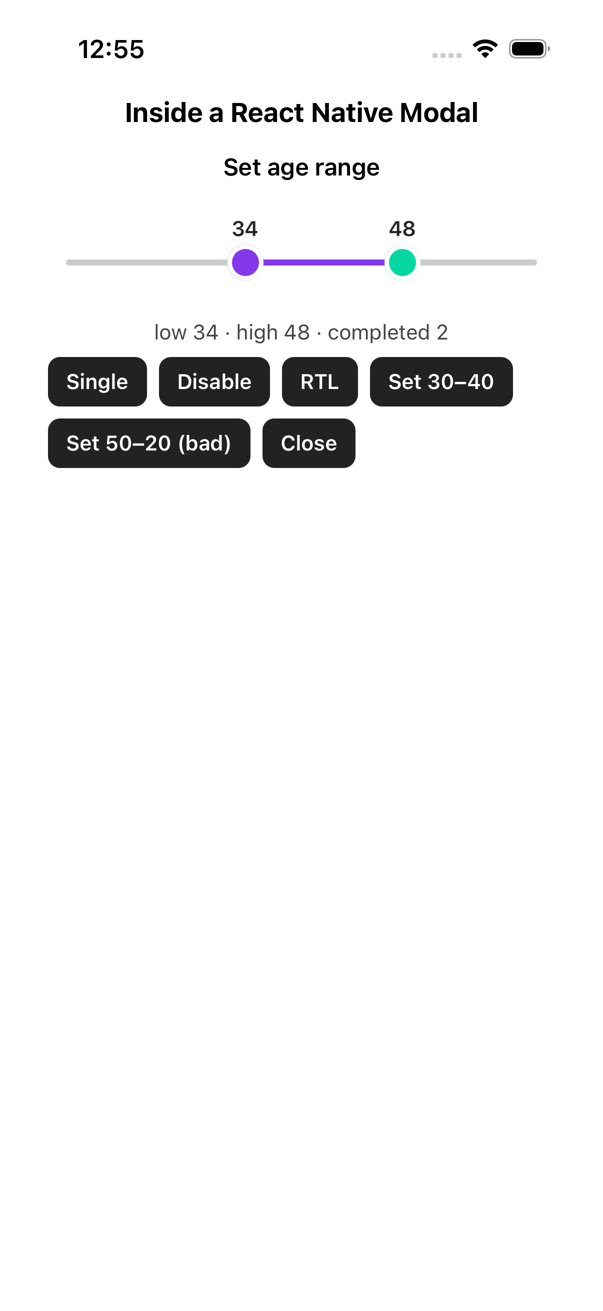
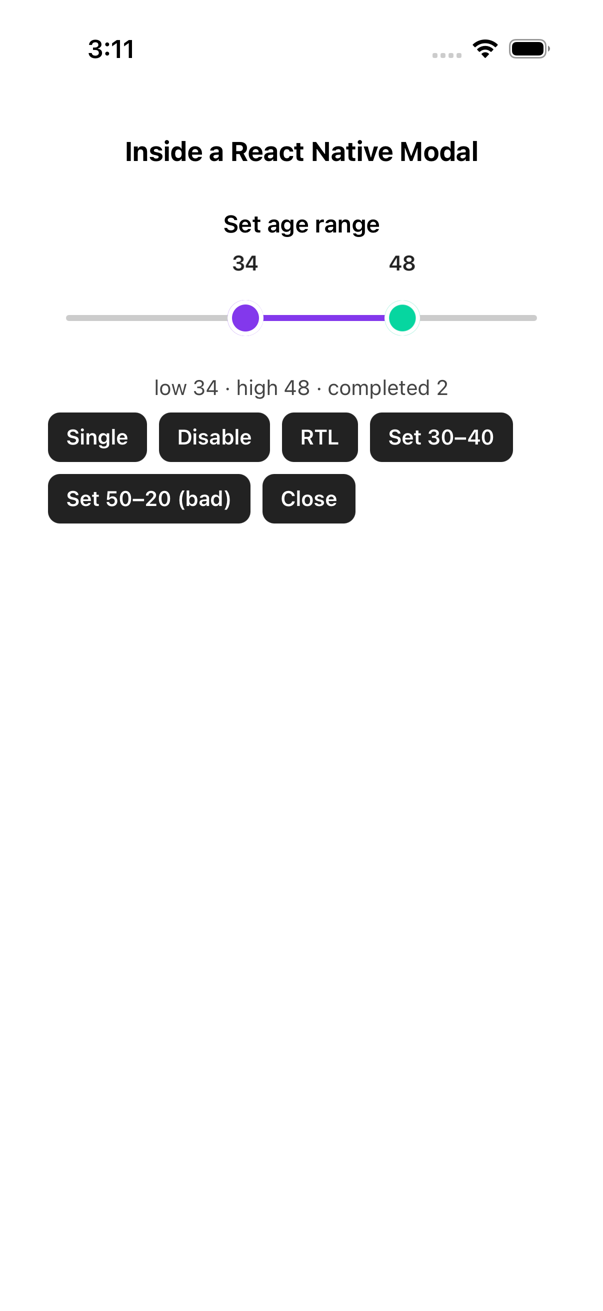
docs: README top with hero, peer table, recipes, migration; final CHANGELOG; new screenshots

Changed region(s): [[0.0597, 0.0305, 0.8955, 0.3966]]

diff --git a/README.md b/README.md
@@ -1,127 +1,125 @@
 # react-native-sticky-range-slider
 
-A fast, accessible range slider for React Native whose value labels **stick to the thumbs**.
+[![npm](https://img.shields.io/npm/v/react-native-sticky-range-slider)](https://www.npmjs.com/package/react-native-sticky-range-slider)
+[![license](https://img.shields.io/npm/l/react-native-sticky-range-slider)](./LICENSE)
+[![CI](https://github.com/hancandice/react-native-sticky-range-slider/actions/workflows/ci.yml/badge.svg)](https://github.com/hancandice/react-native-sticky-range-slider/actions)
 
-- Gestures and thumb animation run on the UI thread (Reanimated worklets + Gesture Handler)
-- Range or single thumb, `step` snapping (decimals without float noise), `minRange`, tap-to-seek
-- Thumbs never cross; overlapping thumbs follow the drag direction
-- Accessible: each thumb is an `adjustable` element with increment/decrement actions; 44 pt touch height
-- RTL aware, works inside `<Modal>` on Android without extra setup
-- New Architecture (Fabric), React 19, Reanimated 4 (and 3), Gesture Handler 3 (and 2), Expo
-- TypeScript, ESM + CommonJS, zero dependencies
+A two-thumb range slider whose value labels ride on the thumbs. 60 fps on the UI thread, accessible, RTL-ready.
 
-| Android | iOS |
-| :-: | :-: |
-| <img src="./docs/demo-android.gif" width="300" /> | <img src="./docs/demo-ios.gif" width="300" /> |
+<p align="center">
+  <img src="https://raw.githubusercontent.com/hancandice/react-native-sticky-range-slider/v1.0.0/docs/hero.gif" width="360" alt="Dragging both thumbs of a price filter until the labels merge, tapping the rail to seek and dragging a single-thumb rating slider" />
+</p>
 
-## Installation
+```tsx
+<RangeSlider min={0} max={500} step={10} low={low} high={high}
+  onValueChange={(l, h) => { setLow(l); setHigh(h); }} />
+```
+
+- Labels follow the thumbs and merge when they meet
+- Range or single thumb, `step` (decimals without float noise) or continuous, `minRange`, tap to seek
+- VoiceOver / TalkBack adjustable thumbs, 44 pt touch target, RTL, dark mode
+- Works inside `<Modal>` on Android, New Architecture, Expo, Reanimated 3 & 4
+
+## Install
 
 ```sh
-npm install react-native-sticky-range-slider
-# peer dependencies
-npx expo install react-native-reanimated react-native-gesture-handler   # Expo
-npm install react-native-reanimated react-native-gesture-handler        # bare React Native
+npx expo install react-native-sticky-range-slider react-native-reanimated react-native-gesture-handler
 ```
 
-Follow the Reanimated and Gesture Handler installation guides. Wrapping your app in
-`GestureHandlerRootView` is recommended (the slider also renders one internally, which is what
-makes it work inside a React Native `<Modal>` on Android).
+Bare React Native:
 
-| Peer | Supported |
-| --- | --- |
-| `react-native` | ≥ 0.76 |
-| `react-native-reanimated` | ≥ 3.16 (incl. 4.x with `react-native-worklets`) |
-| `react-native-gesture-handler` | ≥ 2.20 (incl. 3.x) |
-
-Verified on Android 14 and iOS 26 with Expo SDK 58 (React Native 0.88, New Architecture,
-Reanimated 4.7, Gesture Handler 3.3); type-checked against Reanimated 3.16 / Gesture Handler 2.20 /
-React 18.
-
-## Usage
-
-```tsx
-import { useState } from 'react';
-import { Text, View } from 'react-native';
-import RangeSlider from 'react-native-sticky-range-slider';
-
-export function AgeFilter() {
-  const [range, setRange] = useState({ low: 18, high: 60 });
-
-  return (
-    <View style={{ padding: 24 }}>
-      <RangeSlider
-        min={18}
-        max={60}
-        step={1}
-        minRange={5}
-        low={range.low}
-        high={range.high}
-        onValueChanged={(low, high) => setRange({ low, high })}
-        onSlidingComplete={(low, high) => console.log('save', low, high)}
-        renderLowValue={(value) => <Text>{value}</Text>}
-        renderHighValue={(value) => <Text>{value === 60 ? '60+' : value}</Text>}
-      />
-    </View>
-  );
-}
+```sh
+npm install react-native-sticky-range-slider react-native-reanimated react-native-gesture-handler
 ```
 
-Leave out `low`/`high` for an uncontrolled slider (it starts at `min`/`max`). Use
-`disableRange` for a single thumb.
+Then follow the [Reanimated](https://docs.swmansion.com/react-native-reanimated/docs/fundamentals/getting-started/)
+(Reanimated 4 also needs `react-native-worklets`) and
+[Gesture Handler](https://docs.swmansion.com/react-native-gesture-handler/docs/fundamentals/installation)
+setup. Wrapping your app in `GestureHandlerRootView` is recommended; the slider also renders one
+internally, which is what makes it work inside a React Native `<Modal>` on Android (on Android this
+logs a harmless "already enabled" note when an outer root view exists).
 
-### Custom look
-
-```tsx
-<RangeSlider
-  min={0}
-  max={100}
-  step={5}
-  renderThumb={(type) => <View style={[styles.thumb, type === 'high' && styles.highThumb]} />}
-  renderRail={() => <View style={{ flex: 1, height: 4, borderRadius: 2, backgroundColor: '#ddd' }} />}
-  renderRailSelected={() => <View style={{ height: 4, borderRadius: 2, backgroundColor: '#8338ec' }} />}
-/>
-```
+| Peer | Range | Verified |
+| --- | --- | --- |
+| `react-native` | ≥ 0.76 | 0.88 (New Architecture) on Android 14 and iOS 26, Expo SDK 58 |
+| `react-native-reanimated` | ≥ 3.16 < 5 | 4.7 on device; 3.16 type-checked (`yarn typecheck:min`) |
+| `react-native-gesture-handler` | ≥ 2.20 < 4 | 3.3 on device; 2.20 type-checked |
+| `react` | ≥ 18.2 | 19.3 on device; 18 type-checked |
 
 ## Props
 
 | Prop | Type | Default | Description |
 | --- | --- | --- | --- |
 | `min` / `max` | `number` | **required** | Range. `max < min` is treated as `max = min`. |
-| `step` | `number` | **required** | Distance between values. `0` = continuous. `max` is always reachable. |
-| `minRange` | `number` | `0` | Minimum distance between the thumbs (clamped to the range). |
-| `low` / `high` | `number` | `min` / `max` | Values. When provided, the slider follows them; invalid values are clamped and ordered. |
-| `onValueChanged` | `(low, high) => void` | – | Every user change (drag, tap, accessibility action) – once per step, not per frame. Not called for prop changes. |
+| `step` | `number` | `1` | Distance between values; `0` = continuous. `max` is always reachable, even when `max - min` is not a multiple of `step`. |
+| `minRange` | `number` | `0` | Minimum distance between the thumbs. The limits stay on the step grid. |
+| `low` / `high` | `number` | `min` / `max` | Values. When provided the slider follows them; they are clamped, ordered and snapped to the step grid. Leave them out for an uncontrolled slider. |
+| `onValueChange` | `(low, high) => void` | – | Every user change (drag, tap, accessibility action) — once per step, or on every frame of a drag when `step` is `0`. Not called when you change `low`/`high`. |
 | `onSlidingStart` | `(thumb: 'low' \| 'high') => void` | – | A drag starts. |
 | `onSlidingComplete` | `(low, high) => void` | – | The finger is released (also after a tap or accessibility action). |
-| `renderThumb` | `(type) => ReactNode` | purple dot | Thumb (both thumbs should have the same width). |
-| `renderRail` | `() => ReactNode` | grey line | Full rail (should stretch: `flex: 1`). |
-| `renderRailSelected` | `() => ReactNode` | purple line | Selected part of the rail. |
-| `renderLowValue` / `renderHighValue` | `(value) => ReactNode` | number | Label above each thumb. Return `null` to hide. |
 | `disableRange` | `boolean` | `false` | Single thumb (`low`). |
-| `disabled` | `boolean` | `false` | Ignore user interaction. |
+| `disabled` | `boolean` | `false` | Ignore user interaction and render at 38 % opacity. |
 | `inverted` | `boolean` | `I18nManager.isRTL` | `min` on the right. |
-| `hitSlop` | `number \| Insets` | `{ top: 8, bottom: 8, left: 12, right: 12 }` | Extra touch area. The slider itself is at least 44 pt tall. |
-| `thumbAccessibilityLabel` | `(type) => string` | `'Minimum'` / `'Maximum'` / `'Value'` | Screen reader label of a thumb. |
-| `formatAccessibilityValue` | `(value) => string` | `String` | Screen reader value text. |
+| `labelPosition` | `'top' \| 'none'` | `'top'` | `top` reserves room above the rail for the labels, so they never overlap the content above. |
+| `formatLabel` | `(value) => string` | `String` (2 decimals when `step` is 0) | Text of the default labels. Labels re-render only when this text changes. |
+| `thumbColor` | `string` | `#FFFFFF` | Default thumb fill (28 pt, hairline border, soft shadow). |
+| `railColor` | `string` | `#C7C7CC` (dark: `#48484A`) | Default rail. |
+| `selectedRailColor` | `string` | `#007AFF` (dark: `#0A84FF`) | Default selected rail. |
+| `labelStyle` | `TextStyle` | 13 pt, semibold, tabular numbers | Style of the default labels. |
+| `renderThumb` | `(type, { pressed, disabled }) => ReactNode` | white dot | Custom thumb (both thumbs should have the same size). |
+| `renderRail` / `renderRailSelected` | `() => ReactNode` | 4 pt lines | Custom rails (the full rail should stretch: `flex: 1`). |
+| `renderLowValue` / `renderHighValue` | `(value) => ReactNode` | label | Custom labels. Return `null` to hide one. |
+| `hitSlop` | `number \| Insets` | `{ top: 8, bottom: 8, left: 12, right: 12 }` | Extra touch area around the slider (which is at least 44 pt tall). |
+| `accessibilityLabel` | `string` | – | Prefix of the thumb labels, e.g. `"Price, Minimum"`. |
+| `thumbAccessibilityLabel` | `(type) => string` | `'Minimum'` / `'Maximum'` / `'Value'` | Full screen-reader label of a thumb (overrides the prefix). |
+| `formatAccessibilityValue` | `(value) => string` | `formatLabel` | Screen-reader value text. |
 | `...ViewProps` | | | `style`, `testID`, … for the container. |
-| `pannableAreaStyle` | | | **Deprecated**, ignored (see migration). |
+| `onValueChanged` | | | **Deprecated** alias of `onValueChange`. |
+| `pannableAreaStyle` | | | **Deprecated**, ignored — use `hitSlop`. |
+
+Drags follow the finger 1:1; taps and accessibility actions animate the thumb (150 ms), the pressed
+thumb grows to 1.15×, and all motion honours the system **Reduce Motion** setting.
+
+## Recipes
+
+**Price filter with currency labels**
+
+```tsx
+<RangeSlider
+  min={0} max={1000} step={10} minRange={50}
+  low={price.low} high={price.high}
+  formatLabel={(v) => '$' + v}
+  onValueChange={(low, high) => setPrice({ low, high })}
+  onSlidingComplete={(low, high) => refetch(low, high)}
+  accessibilityLabel="Price"
+/>
+```
+
+**Custom colours / dark mode**
+
+```tsx
+<RangeSlider min={18} max={65} thumbColor="#FF2D55" selectedRailColor="#FF2D55"
+  railColor={dark ? '#3A3A3C' : '#F2D7DE'} labelStyle={{ color: '#FF2D55' }} />
+```
+
+**Single continuous slider**: `<RangeSlider min={0} max={1} step={0} disableRange onValueChange={(v) => setVolume(v)} />`
 
 ## Migrating from 0.x
 
-1.0 is a rewrite on Gesture Handler + Reanimated (0.x used `PanResponder` and `Animated` on the
-JS thread).
+1.0 is a rewrite on Gesture Handler and Reanimated (0.x used `PanResponder` and `Animated` on the JS thread).
 
 1. Install the new peer dependencies `react-native-reanimated` and `react-native-gesture-handler`.
-2. Props are unchanged except:
-   - `onValueChanged` is no longer called on mount, on layout or when you change `low`/`high`
-     yourself – only for user changes. Use `onSlidingComplete` for “change end” work.
-   - `pannableAreaStyle` is ignored: the whole slider (at least 44 pt tall) is touchable; use
-     `hitSlop` to enlarge it.
-   - The slider is now at least 44 pt tall (it used to be as tall as the thumb), and the value
-     labels are centered above the thumbs.
-3. Fixed: dragging inside a React Native `<Modal>` on Android / Expo SDK 53+ (issue #1),
-   overlapping thumbs picked the thumb by touch side instead of drag direction (so they could get stuck), float noise with decimal steps, the pannable area
-   did not extend beyond the slider, missing `main` entry in `package.json`.
+2. `onValueChanged` → `onValueChange` (the old name still works with a one-time warning in development).
+   It is no longer called on mount, on layout or when you change `low`/`high` yourself — only for user
+   changes. Use `onSlidingComplete` for “change end” work.
+3. New look: 28 pt white thumbs, 4 pt rails, labels above the thumbs in reserved space (the slider is
+   taller than before), at least 44 pt touch height. Your `render*` props keep working; `renderThumb`
+   now also receives `{ pressed, disabled }`.
+4. `step` is optional (default `1`); `0` makes the slider continuous. Initial values are snapped to the grid.
+5. `pannableAreaStyle` is ignored: the whole slider is touchable; use `hitSlop` to enlarge it.
+6. Fixed: dragging inside a React Native `<Modal>` on Android / Expo SDK 53+
+   ([#1](https://github.com/hancandice/react-native-sticky-range-slider/issues/1)), overlapping thumbs,
+   float noise with decimal steps, and the missing `main` entry in `package.json`.
 
 ## Example app
 
@@ -130,12 +128,11 @@ yarn
 yarn example start   # press a / i, or open it in Expo Go (SDK 58)
 ```
 
-It includes the README demo inside a React Native `<Modal>` (issue #1), RTL, disabled state and edge
-cases (decimal steps, `step > max - min`, `min === max`). Screenshots from emulator runs are in
-[`docs/screenshots`](./docs/screenshots).
+*Showcase* is a filters card (default and custom-coloured sliders, light and dark mode);
+*Edge cases* has the 0.x README demo inside a React Native `<Modal>` (issue #1), RTL, disabled state,
+continuous and decimal steps, merging labels and degenerate ranges. Screenshots from emulator runs
+are in [`docs/screenshots`](./docs/screenshots).
 
 ## License
 
-MIT
-
-Originally forked from [rn-range-slider](https://www.npmjs.com/package/rn-range-slider).
+MIT · Originally forked from [rn-range-slider](https://www.npmjs.com/package/rn-range-slider).

diff --git a/CHANGELOG.md b/CHANGELOG.md
@@ -1,42 +1,55 @@
 # Changelog
 
-## 1.0.0 — unreleased
+## 1.0.0
 
-Rewrite on Reanimated worklets and Gesture Handler: dragging and thumb/rail animation run on the UI thread;
-the JS thread only re-renders the value labels once per step.
+Rewrite on Reanimated worklets and Gesture Handler: dragging and thumb/rail/label animation run on the
+UI thread; the JS thread only re-renders the labels when their text changes.
 
 ### Breaking
 
-- New peer dependencies: `react-native-reanimated` (≥ 3.16, Reanimated 4 supported) and
-  `react-native-gesture-handler` (≥ 2.20, v3 supported).
-- `onValueChanged` is only called for user changes (drag, tap, accessibility action). It is no longer called on
-  mount, on layout or when `low`/`high` props change.
-- `pannableAreaStyle` is deprecated and ignored; use `hitSlop`.
-- The slider is at least 44 pt tall and value labels are centered above the thumbs.
+- New peer dependencies: `react-native-reanimated` (`>=3.16.0 <5`) and `react-native-gesture-handler`
+  (`>=2.20.0 <4`).
+- `onValueChange` is only called for user changes (drag, tap, accessibility action) — not on mount, on layout
+  or when `low`/`high` props change.
+- New default look: 28 pt white thumbs with a soft shadow, 4 pt rails (`#C7C7CC` / `#007AFF`, dark-mode aware),
+  13 pt semibold tabular labels in reserved space above the rail (`labelPosition`), at least 44 pt touch height.
+- `pannableAreaStyle` is ignored; use `hitSlop`.
 
-### Fixed
+### Deprecated
 
-- Thumbs could not be dragged inside a React Native `<Modal>` on Android (issue #1, Expo SDK 53+): the slider
-  renders a nested `GestureHandlerRootView`, so no app-side setup is needed.
-- `package.json` had no `main` entry (CommonJS consumers and Jest could not resolve the package).
-- Overlapping thumbs (`low === high`) picked a thumb by touch side; the drag direction now decides.
-- Floating point noise with decimal steps (`0.30000000000000004`).
-- `max` was not reachable when `max - min` is not a multiple of `step`.
-- Invalid props (`low > high`, values outside the range, `minRange` larger than the range, `max < min`,
-  `step <= 0`) are normalized instead of producing a broken slider.
-- The enlarged touch area extended outside its parent and never received touches.
-- Props changed during a drag are applied when the drag ends.
+- `onValueChanged` → `onValueChange` (still works, one-time `__DEV__` warning).
 
 ### Added
 
-- `onSlidingStart`, `onSlidingComplete`, `inverted` (defaults to `I18nManager.isRTL`), `hitSlop`,
-  `thumbAccessibilityLabel`, `formatAccessibilityValue`.
-- Tap on the rail moves the closest thumb.
+- `step` is optional (default `1`); `step={0}` makes the slider continuous.
+- Labels merge into one centred "low – high" label when they touch and stay inside the slider at both ends.
+- `thumbColor`, `railColor`, `selectedRailColor`, `labelStyle`, `formatLabel`, `labelPosition`, `inverted`
+  (defaults to `I18nManager.isRTL`), `hitSlop`, `onSlidingStart`, `onSlidingComplete`,
+  `thumbAccessibilityLabel`, `formatAccessibilityValue`; `renderThumb(type, { pressed, disabled })`.
+- Disabled state renders at 38 % opacity.
+- Tap on the rail moves the closest thumb; taps on a thumb leave it in place.
+- Motion: taps and accessibility actions animate (150 ms, ease-out cubic), the pressed thumb springs to 1.15×,
+  `ReduceMotion.System` is honoured.
 - Accessibility: each thumb is an `adjustable` element (Android `SeekBar`) with value, range and
-  increment/decrement actions.
-- Named export `RangeSlider` and types `RangeSliderProps`, `ThumbType`.
-- ESM + CommonJS builds with `exports`, `sideEffects: false`, strict TypeScript types with JSDoc.
-- Expo SDK 58 example app (React Native 0.88, New Architecture).
+  increment/decrement actions; the slider's `accessibilityLabel` prefixes the thumb labels.
+- Named export `RangeSlider`, types `RangeSliderProps`, `ThumbType`, `ThumbState`.
+- ESM + CommonJS builds with `exports`, `sideEffects: false`, strict TypeScript with JSDoc,
+  `yarn typecheck:min` (Reanimated 3.16 / Gesture Handler 2.20 / React 18), CI workflow.
+- Expo SDK 58 example app (React Native 0.88, New Architecture) with a filters showcase.
+
+### Fixed
+
+- Thumbs could not be dragged inside a React Native `<Modal>` on Android (#1, Expo SDK 53+): the slider renders a
+  nested `GestureHandlerRootView`, so no app-side setup is needed.
+- `package.json` had no `main` entry (CommonJS consumers and Jest could not resolve the package).
+- Overlapping thumbs (`low === high`) picked a thumb by touch side; the drag direction now decides.
+- Floating point noise with decimal steps; a decimal `max` (e.g. `10.5` with `step={1}`) could be exceeded.
+- `max` was not reachable when `max - min` is not a multiple of `step`.
+- `minRange` that is not a multiple of `step` pushed thumbs off the step grid; initial values were not snapped.
+- Invalid props (`low > high`, values out of range, `minRange` larger than the range, `max < min`, `step < 0`)
+  are normalized instead of producing a broken slider.
+- The enlarged touch area extended outside its parent and never received touches.
+- Props changed during a drag are applied when the drag ends; thumbs no longer render at 0 on the first frame.
 
 ## 0.1.7
 
